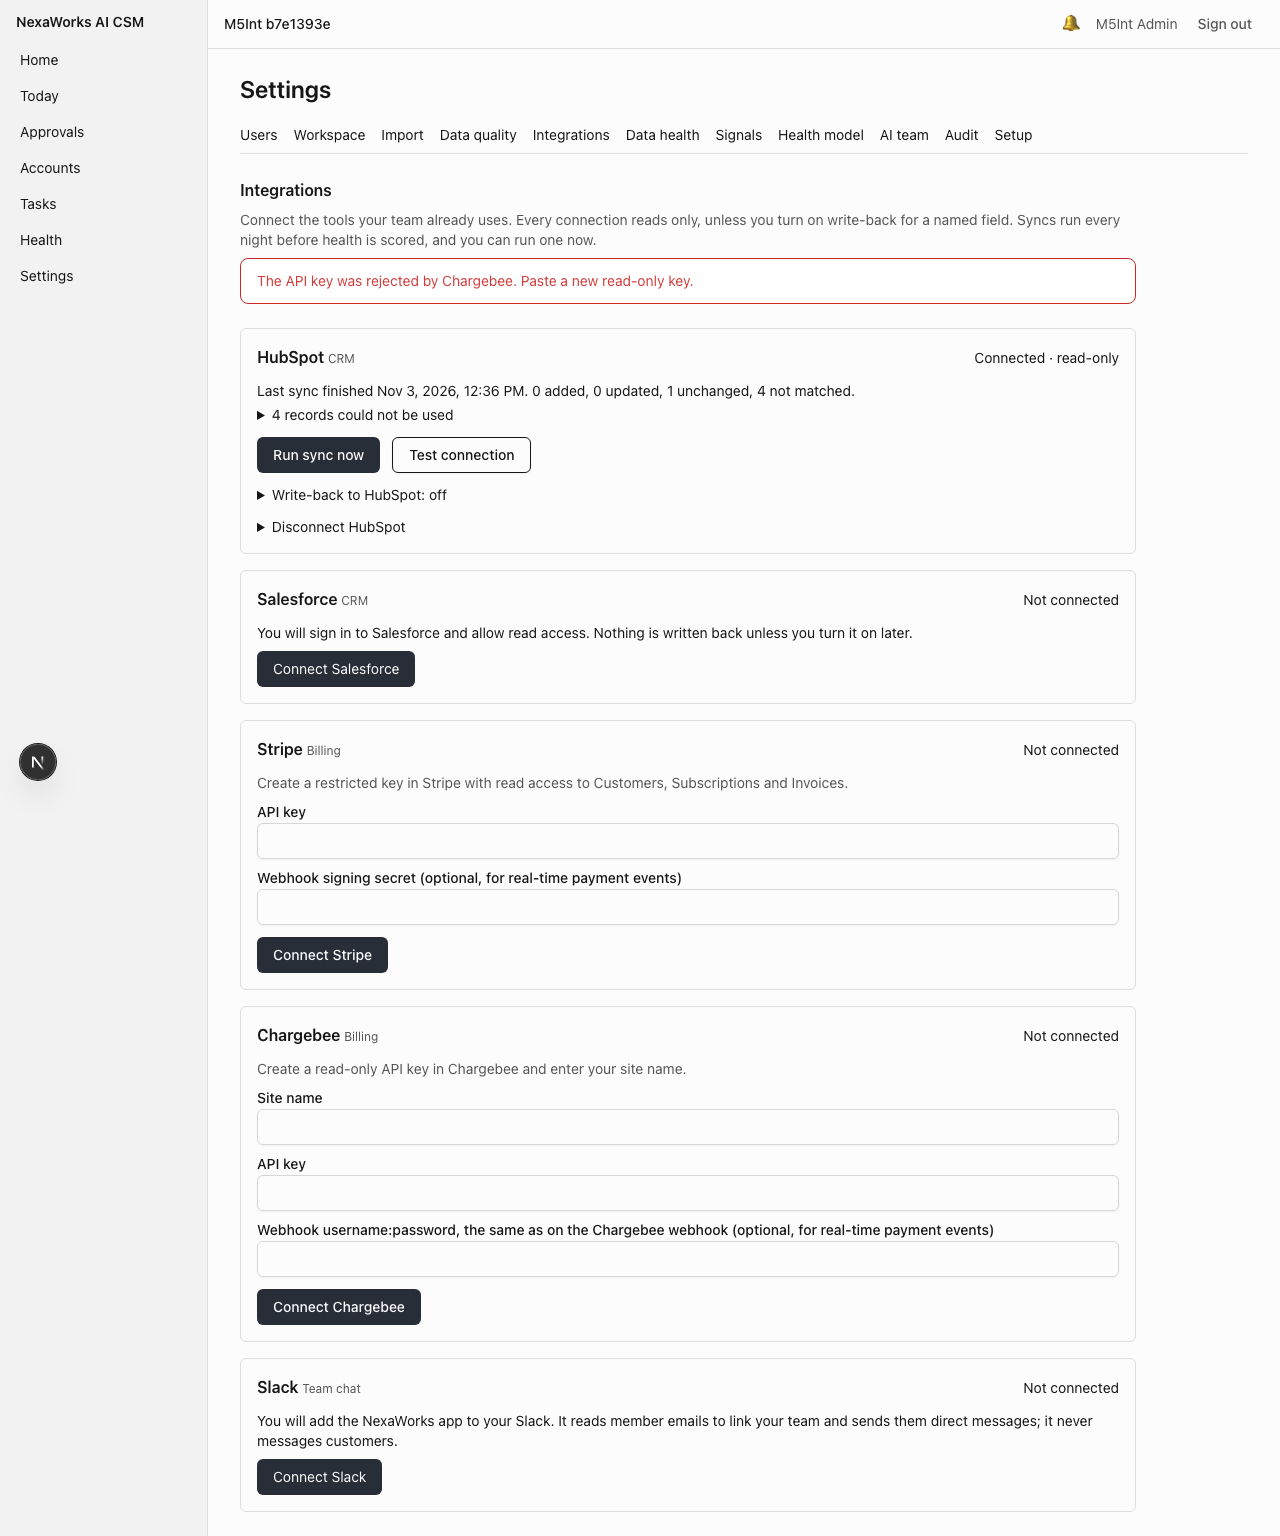
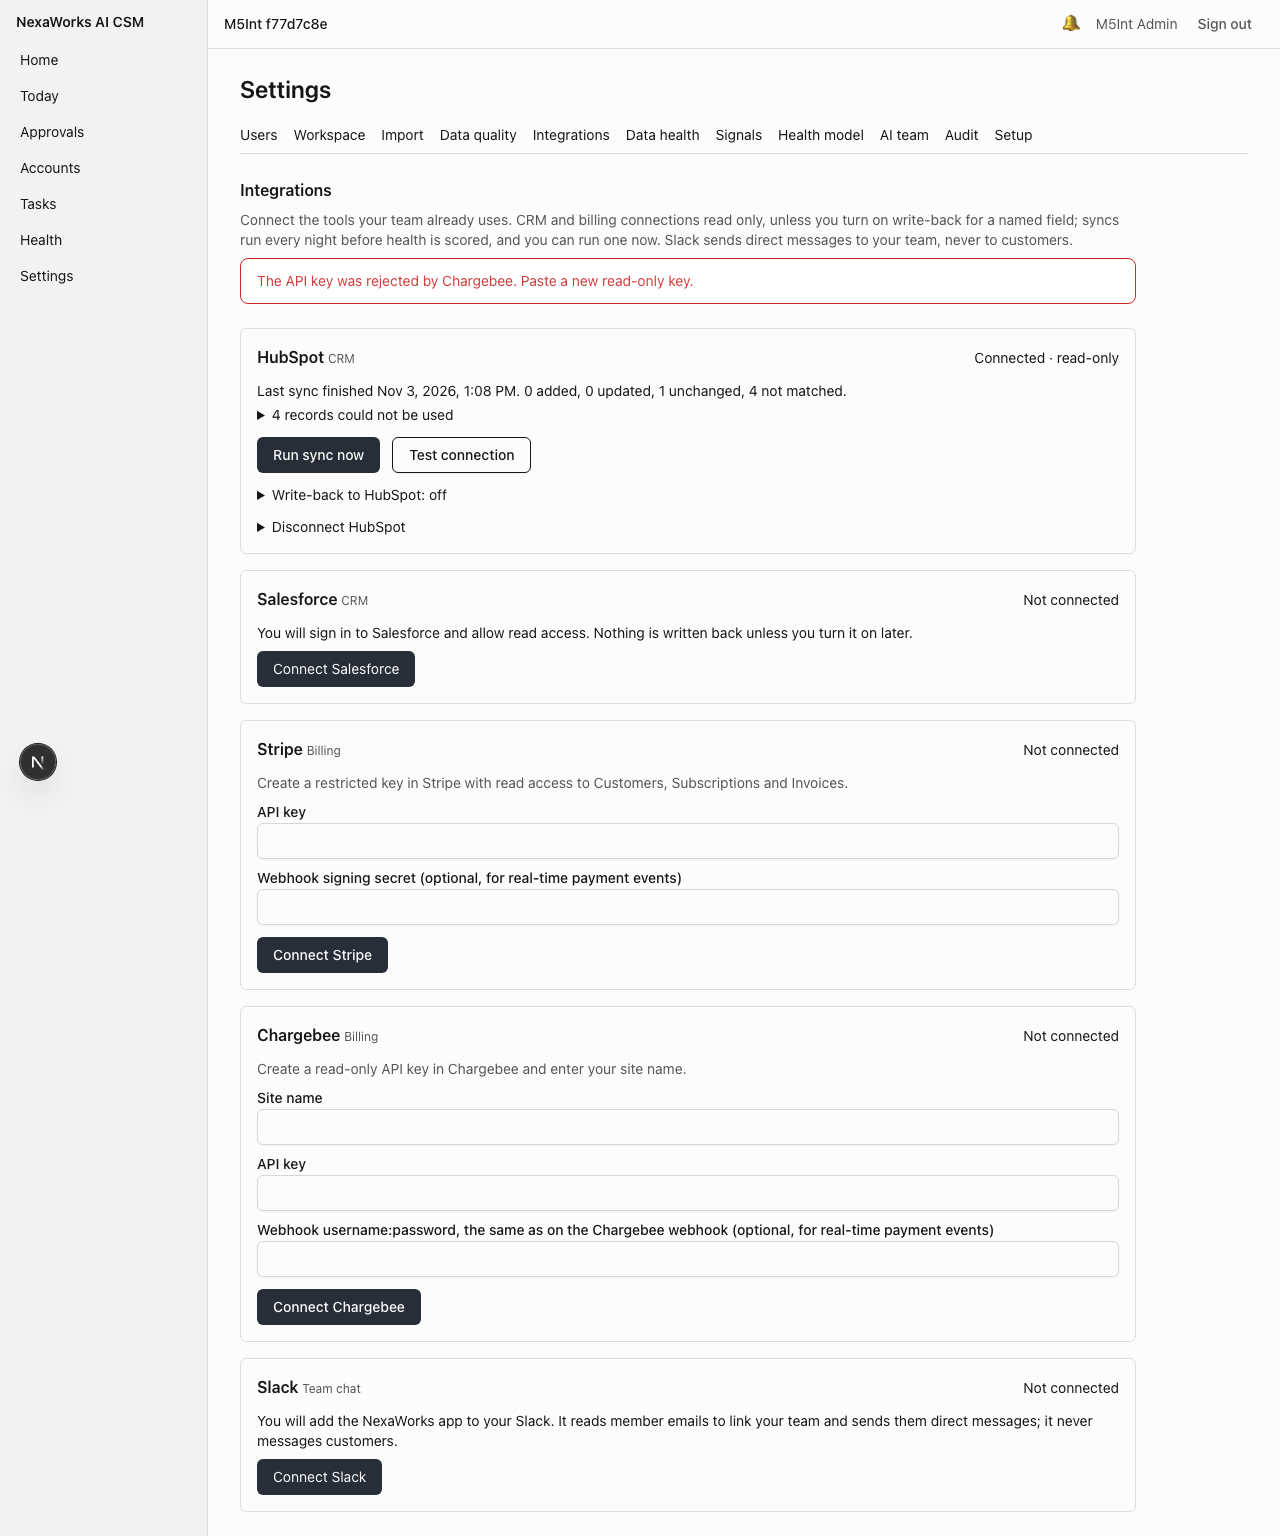
fix(integrations): Slack is not read-only (Q-56)
The Slack card reads 'Connected · messages your team'; its connect notice says
it sends approvals, big signals and a morning digest to the team as direct
messages and never messages customers; the page intro no longer calls every
connection read-only. The M5 e2e's Slack status assertion changes with it
(HubSpot and Stripe assertions unchanged). Q-56 closed.

diff --git a/src/app/(app)/settings/integrations/page.tsx b/src/app/(app)/settings/integrations/page.tsx
@@ -21,10 +21,22 @@ type SearchParams = Promise<Record<string, string | string[] | undefined>>;
 const one = (v: string | string[] | undefined) => (Array.isArray(v) ? v[0] : v);
 
 const STATUS: Record<"CONNECTED" | "ERROR" | "DISCONNECTED", string> = {
+  // Data connectors read only (Rule 7); Slack is the exception and says so below (Q-56).
   CONNECTED: "Connected · read-only",
   ERROR: "Needs attention",
   DISCONNECTED: "Disconnected",
 };
+
+/** Slack sends messages to the team (never to customers), so it is never called read-only (Q-56). */
+const statusLabel = (provider: string, status: keyof typeof STATUS) =>
+  provider === "SLACK" && status === "CONNECTED"
+    ? "Connected · messages your team"
+    : STATUS[status];
+
+const connectedNotice = (provider: string, name: string) =>
+  provider === "SLACK"
+    ? "Connected Slack. It sends approvals, big signals and a morning digest to your team as direct messages; it never messages customers."
+    : `Connected ${name}. It reads only; nothing is written back.`;
 
 const OAUTH_ERRORS: Record<string, string> = {
   declined: "The sign-in was cancelled, so nothing was connected.",
@@ -55,7 +67,10 @@ export default async function IntegrationsPage({ searchParams }: { searchParams:
   const notice = error
     ? (OAUTH_ERRORS[error] ?? error)
     : one(params.connected)
-      ? `Connected ${cards.find((c) => c.provider.toLowerCase() === one(params.connected))?.name ?? ""}. It reads only; nothing is written back.`
+      ? (() => {
+          const c = cards.find((x) => x.provider.toLowerCase() === one(params.connected));
+          return connectedNotice(c?.provider ?? "", c?.name ?? "");
+        })()
       : one(params.tested)
         ? one(params.tested)
         : one(params.queued)
@@ -73,9 +88,9 @@ export default async function IntegrationsPage({ searchParams }: { searchParams:
           Integrations
         </h2>
         <p className="text-muted-foreground text-sm">
-          Connect the tools your team already uses. Every connection reads only, unless you turn on
-          write-back for a named field. Syncs run every night before health is scored, and you can
-          run one now.
+          Connect the tools your team already uses. CRM and billing connections read only, unless
+          you turn on write-back for a named field; syncs run every night before health is scored,
+          and you can run one now. Slack sends direct messages to your team, never to customers.
         </p>
         {notice ? (
           <Alert variant={error ? "destructive" : "default"} role={error ? "alert" : "status"}>
@@ -111,7 +126,7 @@ function ProviderSection({ card, tz }: { card: ProviderCard; tz: string }) {
           </span>
         </h3>
         <span className="text-sm" data-testid={`status-${card.provider}`}>
-          {i ? STATUS[i.status] : "Not connected"}
+          {i ? statusLabel(card.provider, i.status) : "Not connected"}
         </span>
       </div>
 

diff --git a/e2e/m5-integrations.spec.ts b/e2e/m5-integrations.spec.ts
@@ -190,7 +190,7 @@ test.describe("M5 integrations and setup", () => {
       .getByRole("region", { name: /Slack/ })
       .getByRole("link", { name: "Connect Slack" })
       .click();
-    await expect(page.getByTestId("status-SLACK")).toHaveText("Connected · read-only");
+    await expect(page.getByTestId("status-SLACK")).toHaveText("Connected · messages your team");
     await expect(page.getByTestId("slack-linked")).toContainText("Sensitive approvals show");
     const click = await page.request.post("/api/integrations/slack/interactivity", {
       headers: { "content-type": "application/x-www-form-urlencoded" },

diff --git a/docs/QUESTIONS.md b/docs/QUESTIONS.md
@@ -65,7 +65,7 @@ Status legend: **OPEN** (default in use) · **ANSWERED** (see section C; the row
 | Q-53 | Rule 9, D-92 | `next dev` prints request URLs, so the OAuth callback's one-time `code` and signed `state` appear in the dev server's console. Our logger never logs them; production `next start` has no request log. | Accept for development; no secret value is logged by our code. | Add a dev-only request-log filter. |
 | Q-54 | M2 tier rule (INTERP-3), found in M5 | `applyTierRule` called inside a tenant transaction read the tier bands through a nested `scopedDb` call, which runs on another connection without the workspace setting, so RLS hid the settings row and the **default** bands were used. Invisible until M5, because nothing let an Admin change the bands. | **Found and fixed (M5 B5):** `applyTierRule` reads the bands through its own transaction. Other nested `scopedDb` reads inside `$tenantTransaction` may have the same blind spot; none found in the M5 paths. | Audit every nested scopedDb read inside tenant transactions (M12 performance/safety pass). |
 | Q-55 | M5 D4 wording vs code | The founder's D4 places the Slack digest "inside the existing nightly flow after today.rebuild", but in this codebase `today.rebuild` is the hourly maintenance job `today.rebuildAll`, not a nightly-flow step. | The digest follows `today.rebuildAll` (once per member per business date, from 07:00 workspace time). No new repeatable job; `NIGHTLY_SCHEDULES` and the clock pin unchanged (D-95). | Move both Today rebuild and digest into the nightly flow's final step (a pipeline change). |
-| Q-56 | §6J3, Settings › Integrations copy | The Slack card shows "Connected · read-only" and its connect notice says "It reads only; nothing is written back", but Slack posts DMs to the team (never to customers). Seen in the fresh-database demo after the Tier-2 pair, so not changed then. | Copy-only fix at the start of M6: "Connected · posts to your team only". | — |
+| Q-56 | §6J3, Settings › Integrations copy | The Slack card shows "Connected · read-only" and its connect notice says "It reads only; nothing is written back", but Slack posts DMs to the team (never to customers). Seen in the fresh-database demo after the Tier-2 pair, so not changed then. | **Closed (M6 slice 0):** the Slack card reads "Connected · messages your team", its connect notice says it sends approvals, big signals and a morning digest to the team as direct messages and never messages customers, and the page intro no longer calls every connection read-only. One M5 e2e assertion (the Slack status text) changed with it. | — |
 | Q-57 | M5 §7 step 5, D-78 | The fresh-database demo showed a payment signal missing from the owner's Today for up to 10 minutes (Today cache). | **Fixed (failure batch 2, D-99)** and covered by `stripe.int.test.ts` and the M5 e2e. | — |
 
 ## C. Answered
